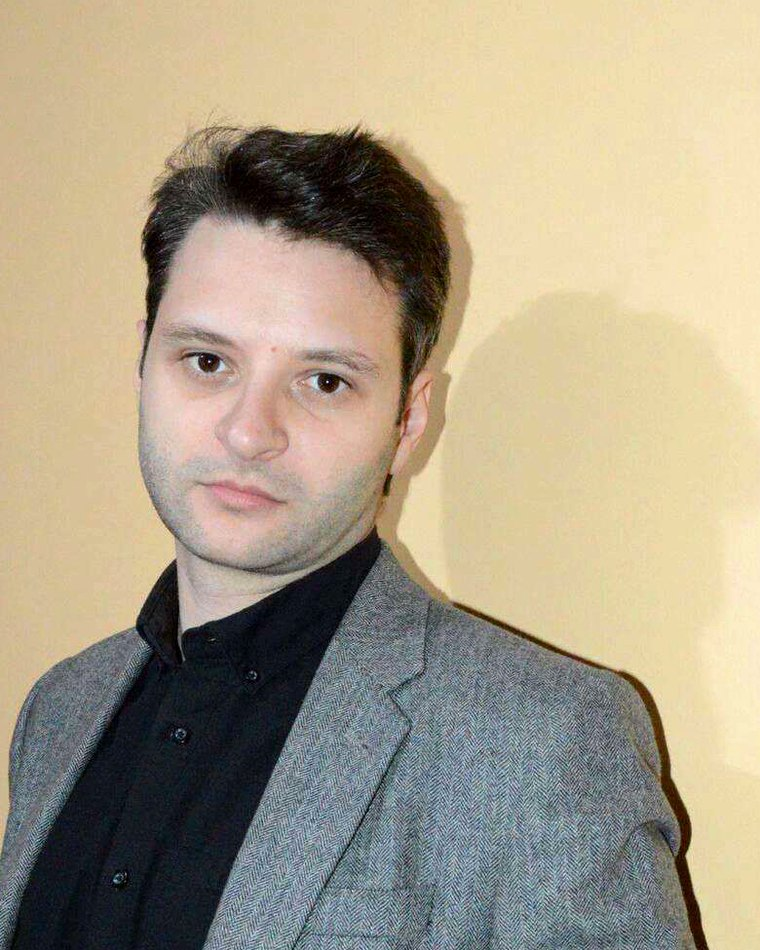
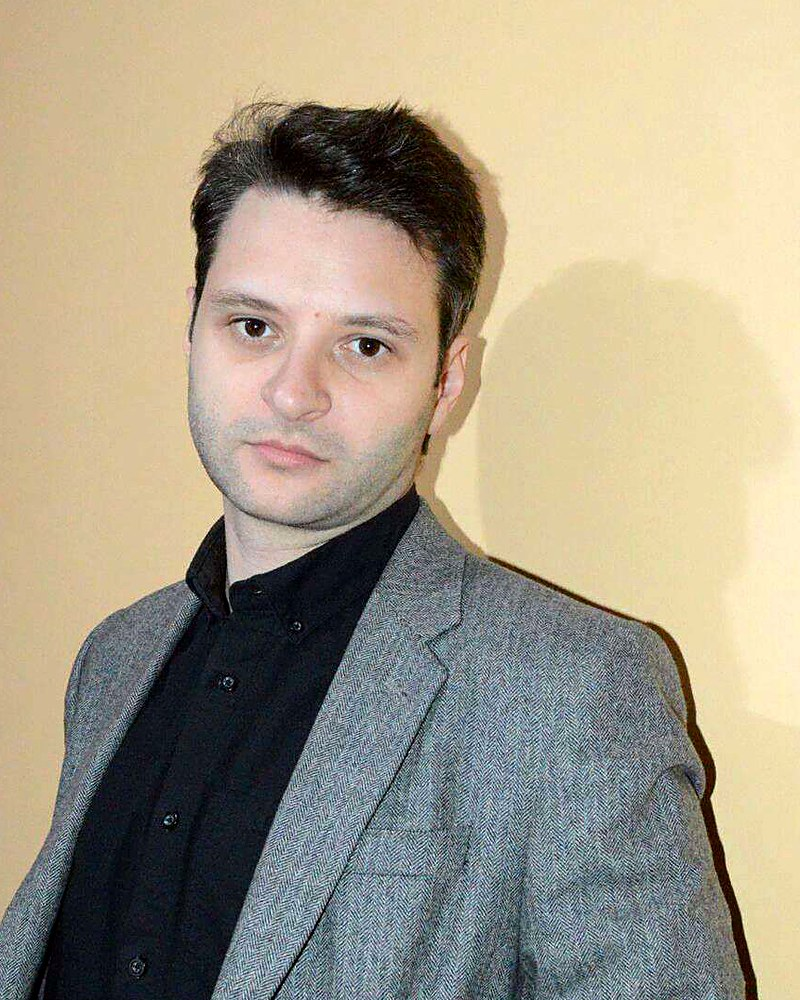
Add files via upload

diff --git a/index.html b/index.html
@@ -160,7 +160,10 @@
       <p>These days I'm the ChurnZero admin at Launch Control, which I enjoy more than a normal person probably should.</p>
     </div>
     <div class="photo-col">
-    <img class="about-photo" src="portrait.jpg" alt="Aleksandar Petrović" width="760" height="950" loading="lazy">
+    <figure class="photo-figure">
+      <img class="about-photo" src="portrait.jpg" alt="Aleksandar Petrović, Senior Customer Success Manager" width="800" height="1000" loading="lazy">
+      <figcaption class="photo-caption">Aleksandar Petrović, Senior Customer Success Manager at Launch Control. Based in Jagodina, Serbia, working across European and US time zones.</figcaption>
+    </figure>
     <div class="aside-card">
       <h3>Quick facts</h3>
       <ul>

diff --git a/styles.css b/styles.css
@@ -260,3 +260,6 @@ section.tint{border-top:1px solid var(--line);border-bottom:1px solid var(--line
   width:92px;height:92px;border-radius:50%;object-fit:cover;
   border:3px solid rgba(255,255,255,.9);margin-bottom:18px;
 }
+
+.photo-figure{margin:0}
+.photo-figure .photo-caption{margin-top:10px}